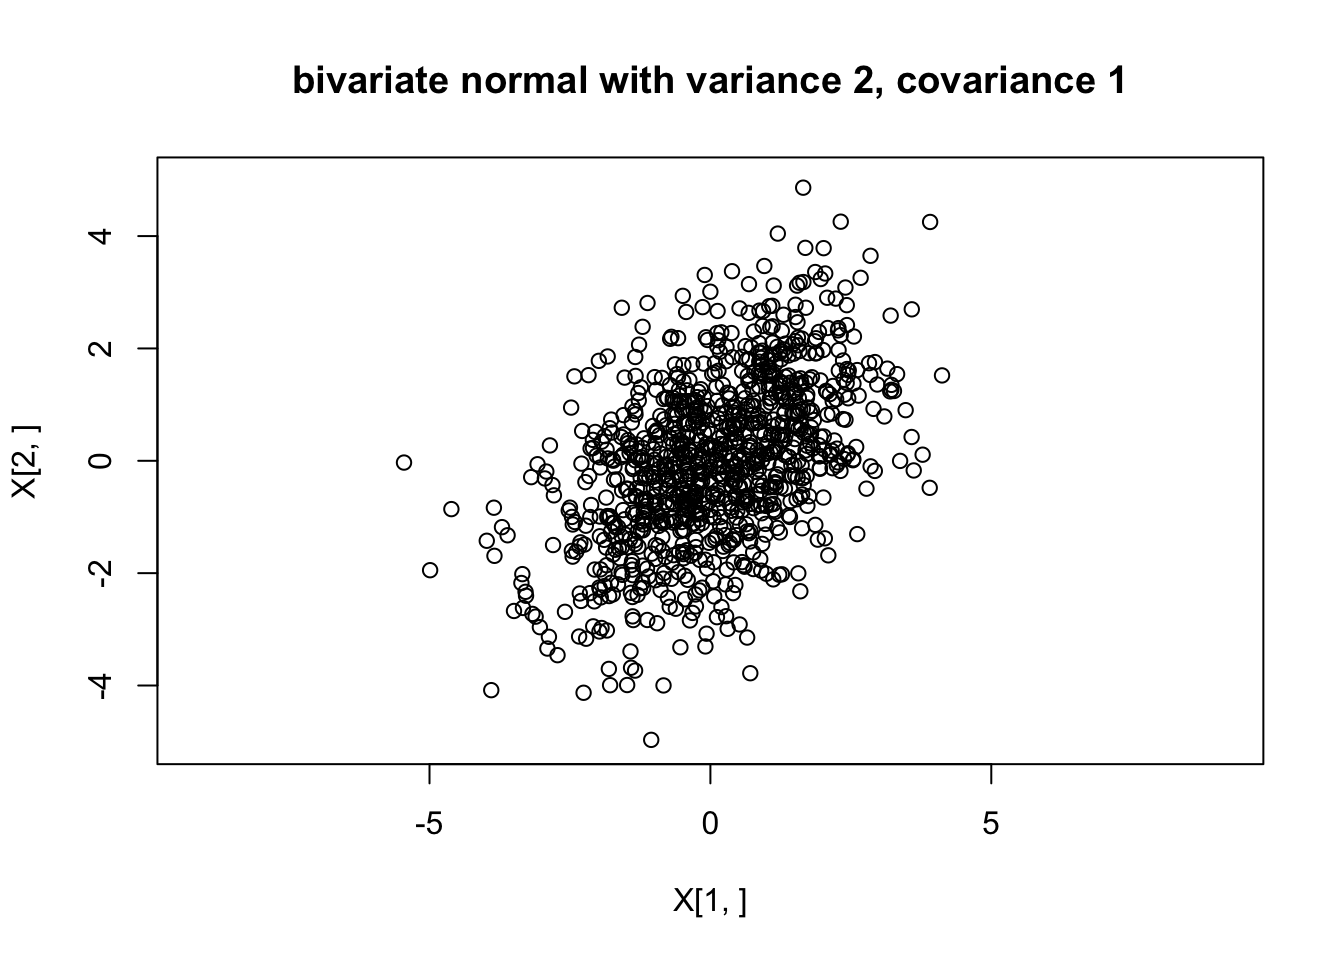
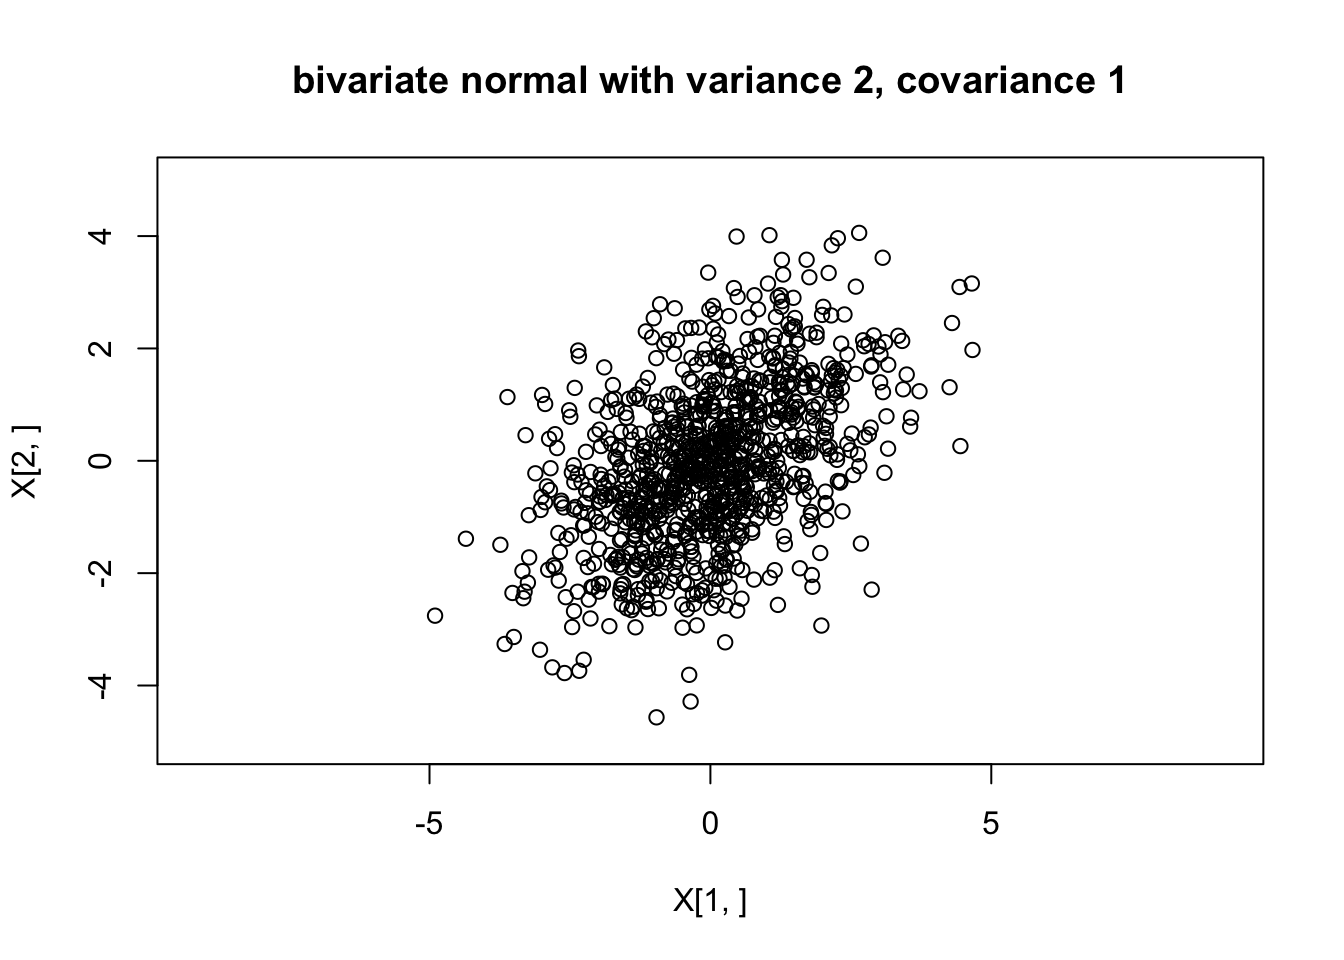
commit misc updates

diff --git a/analysis/mvnorm.html b/analysis/mvnorm.html
@@ -135,8 +135,8 @@ img {
 </ul>
 </div>
 
-<p><strong>Last updated:</strong> 2016-02-15</p>
-<p><strong>Code version:</strong> 01b376bdda3d62f53d333bd4ab6f8dbe2efc18b0</p>
+<p><strong>Last updated:</strong> 2016-02-18</p>
+<p><strong>Code version:</strong> 294d219966965c87029f40e4f246daf7bed77513</p>
 <div id="pre-requisites" class="section level1">
 <h1>Pre-requisites</h1>
 <p>You need to know what a univariate normal distribution is, and basic properties such as the fact that linear combinations of normals are also normal. You also need to know the basics of matrix algebra (eg matrix multiplication, matrix transpose).</p>
@@ -170,9 +170,9 @@ plot(X[1,],X[2,],main=&quot;bivariate normal with variance 2, covariance 1&quot;
 <p><img src="figure/mvnorm.Rmd/unnamed-chunk-2-1.png" title="" alt="" width="672" style="display: block; margin: auto;" /></p>
 <p>And we can check the sample covariances are close to the theoretical values:</p>
 <pre class="r"><code>cov(t(X))</code></pre>
-<pre><code>         [,1]     [,2]
-[1,] 2.050361 1.006676
-[2,] 1.006676 2.130650</code></pre>
+<pre><code>          [,1]      [,2]
+[1,] 2.0607663 0.9468532
+[2,] 0.9468532 1.9582506</code></pre>
 </div>
 <div id="general-algorithm" class="section level1">
 <h1>General algorithm</h1>

diff --git a/analysis/normal_markov_chain.html b/analysis/normal_markov_chain.html
@@ -135,8 +135,8 @@ img {
 </ul>
 </div>
 
-<p><strong>Last updated:</strong> 2016-02-16</p>
-<p><strong>Code version:</strong> 2267e95836dbbfc86708f7a3948abbc22daa3c87</p>
+<p><strong>Last updated:</strong> 2016-02-18</p>
+<p><strong>Code version:</strong> 294d219966965c87029f40e4f246daf7bed77513</p>
 <div id="pre-requisites" class="section level1">
 <h1>Pre-requisites</h1>
 <p>You should be familiar with the idea of a Markov chain, and with the <a href="mvnorm.html">multivariate normal distribution</a>.</p>

diff --git a/analysis/likelihood_ratio_simple_continuous_data.html b/analysis/likelihood_ratio_simple_continuous_data.html
@@ -139,7 +139,7 @@ img {
 </div>
 
 <p><strong>Last updated:</strong> 2016-03-28</p>
-<p><strong>Code version:</strong> 28fcc7c38dcac7ddea0f3070c685f036e1f8a131</p>
+<p><strong>Code version:</strong> 7559bca45fdc542eb56a4713accec0936fea10e0</p>
 <div id="summary" class="section level1">
 <h1>Summary</h1>
 <p>This document introduces the likelihood ratio for continuous data and models, and explains its connection with discrete models.</p>
